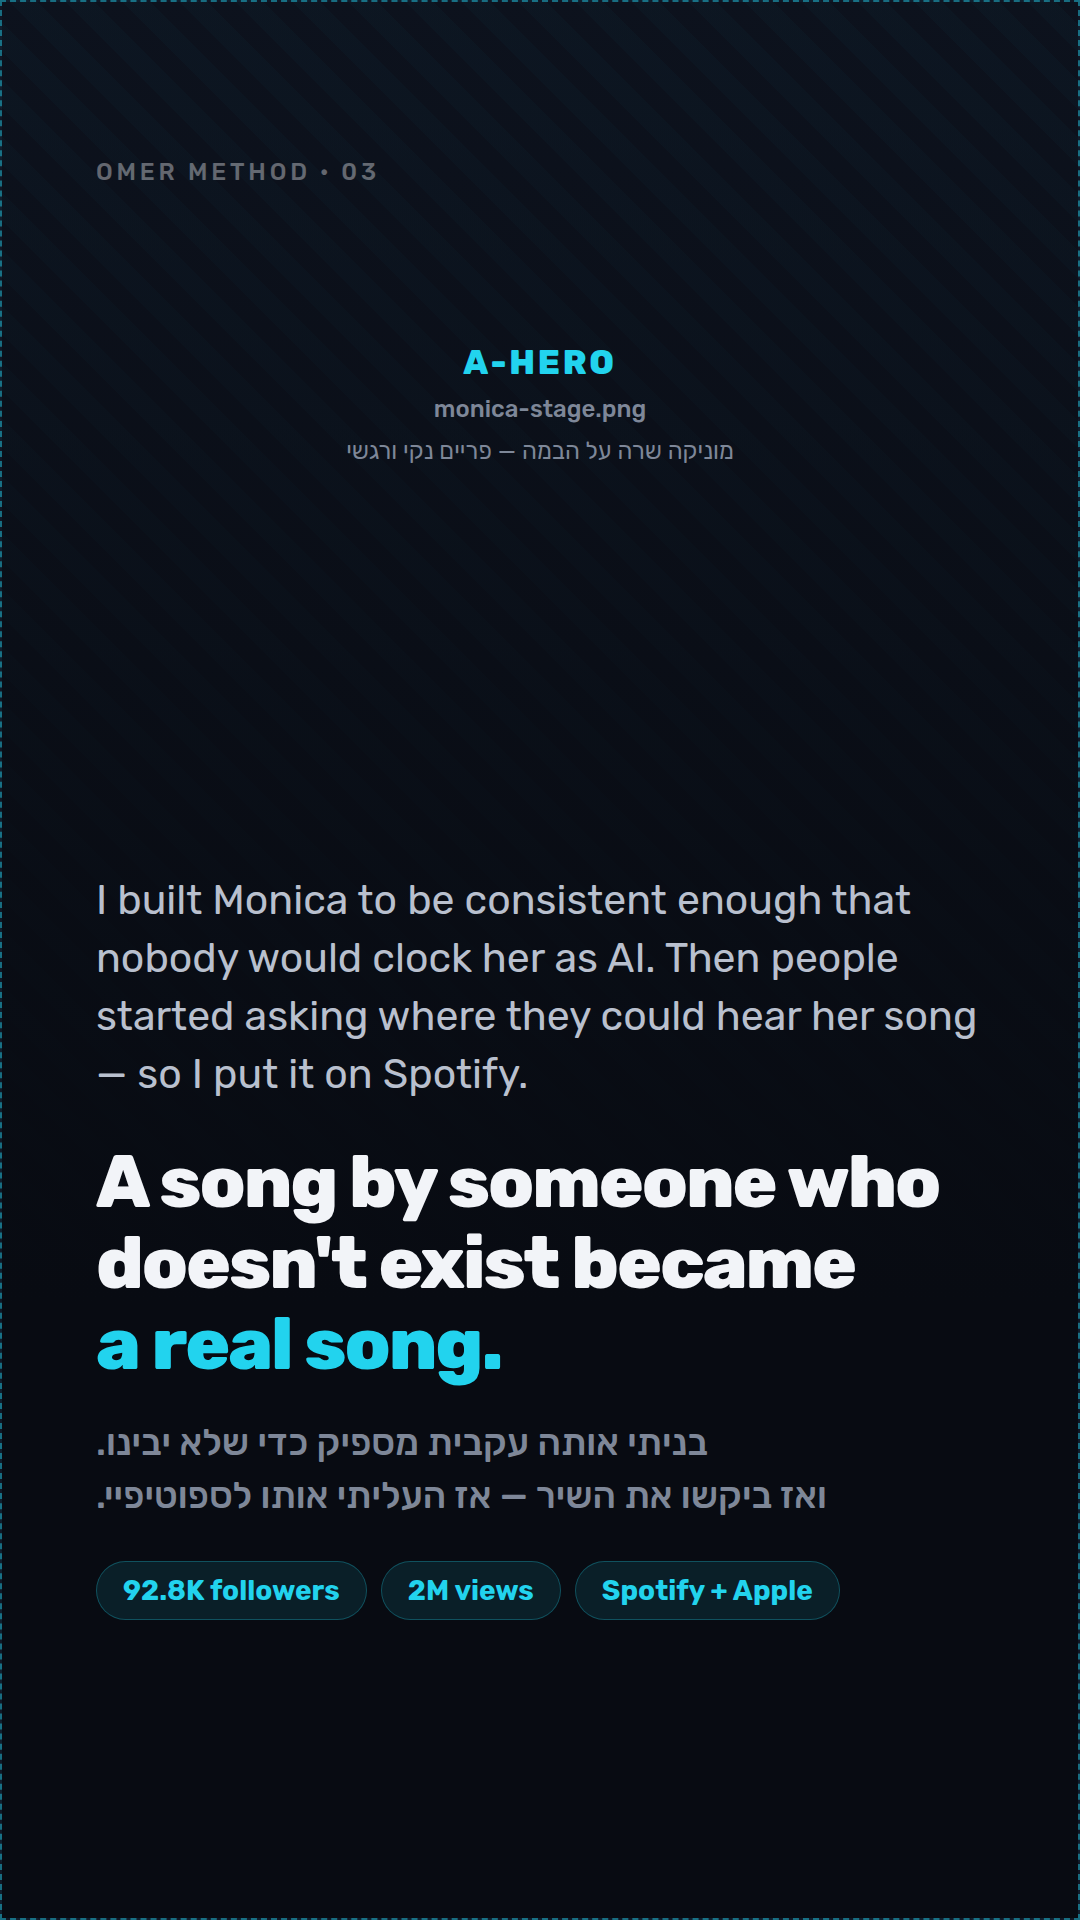
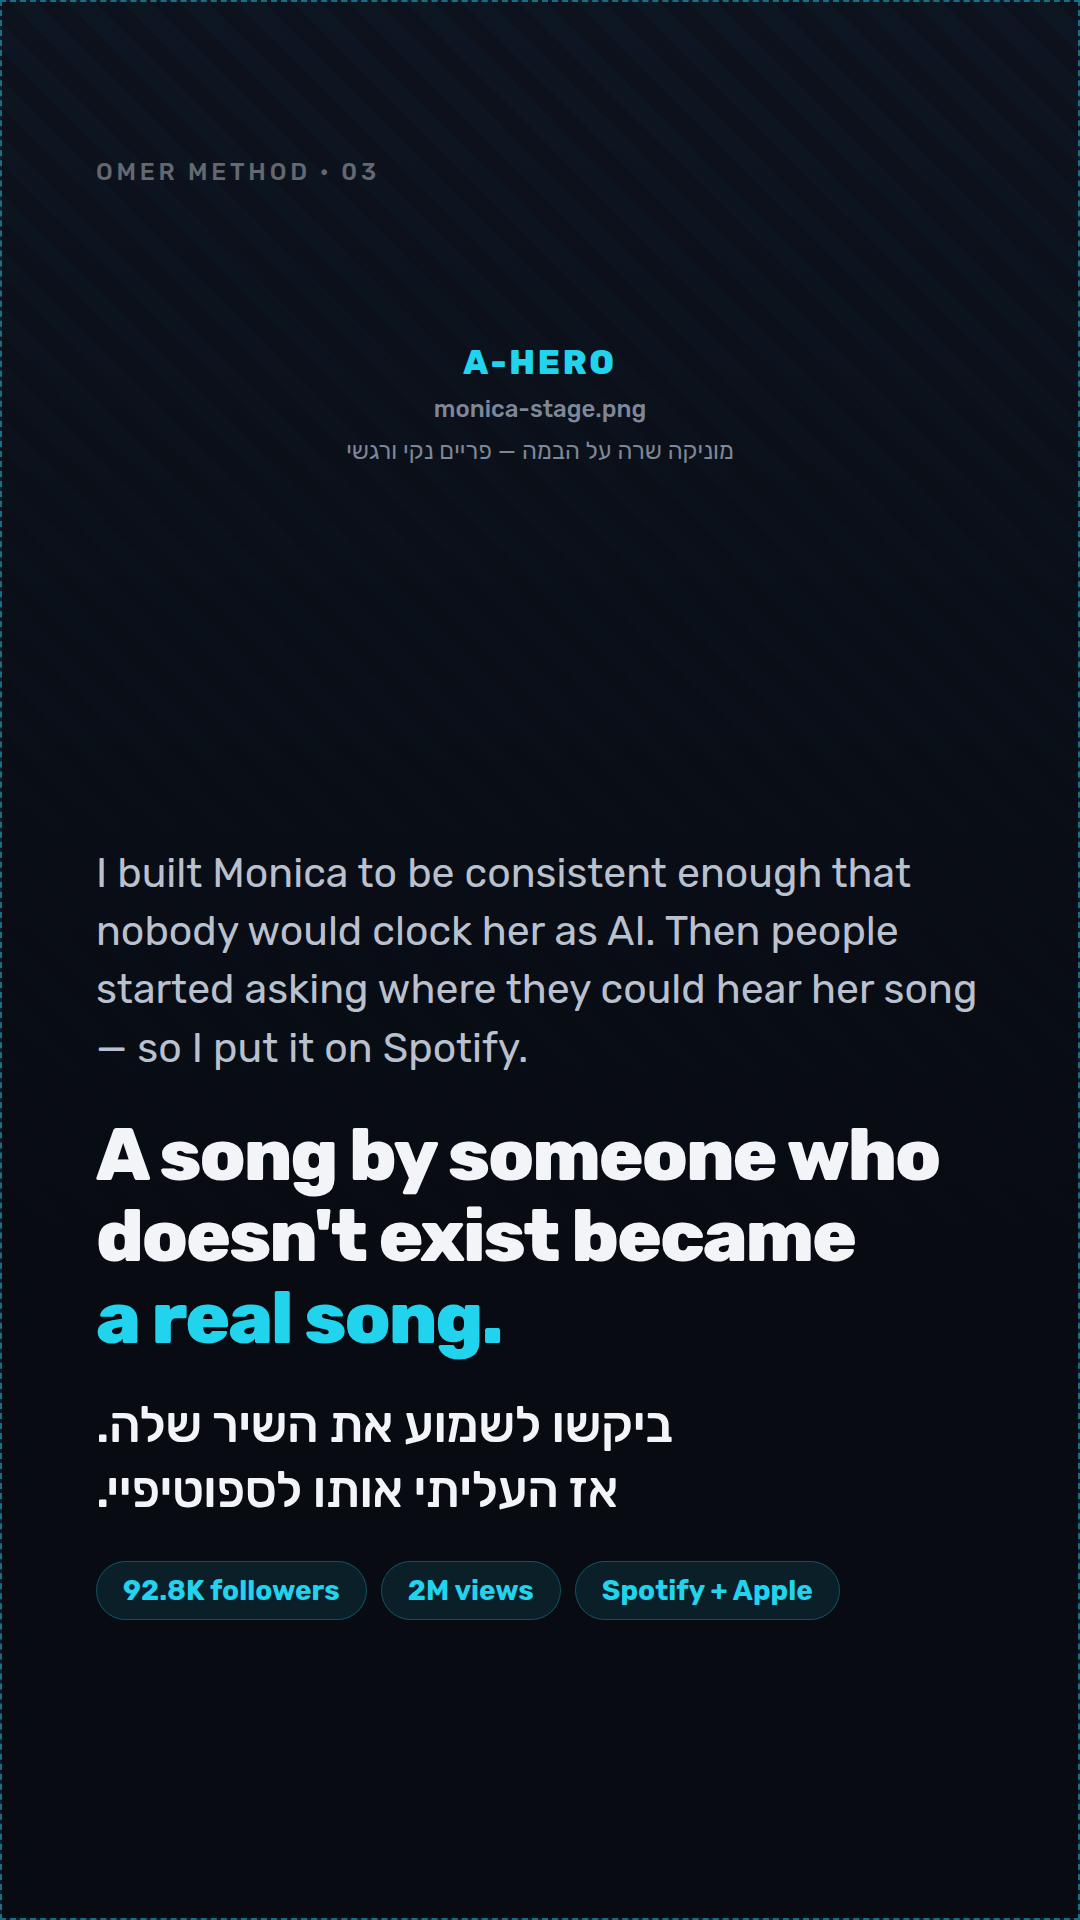
Raise Hebrew to a matching headline size
Hebrew was set at 37px in muted grey, which read as a caption next to an
88px English lead. It now sets at 62px in the same paper-white (50px on
dense frames). Hebrew carries no ascender/descender swing, so ~0.70x of
the Latin lead lands at matching visual weight — English still reads
first, but Hebrew is a headline rather than a footnote.

Hebrew copy tightened where headline size made lines wrap, and frame 4
was 229px past the canvas once the zones and closing line grew; its bands
and closing statement are resized to fit.

Adds lines.mjs, which checks the rendered DOM for unintended line wraps
and for frames overflowing 1920px. Both failures are invisible in the
HTML source and silently crop in the PNG.

Claude-Session: https://claude.ai/code/session_0113ue75zsKk6knXSw8ei82D

Changed region(s): [[0.0917, 0.4375, 0.9167, 0.8125], [0.7333, 0.75, 0.7639, 0.7812]]

diff --git a/omer-method-launch/01-stories/frames.html b/omer-method-launch/01-stories/frames.html
@@ -19,14 +19,18 @@
 
   /* ── English leads. Sentence case, never caps: caps read as advertising. ── */
   .en{direction:ltr;text-align:left}
-  .he{direction:rtl;text-align:left;color:var(--muted)}
+  .he{direction:rtl;text-align:left}
 
   .lead{font-size:88px;font-weight:800;line-height:1.1;letter-spacing:-.028em}
   .lead.sm{font-size:74px}
   .sub{font-size:41px;font-weight:400;line-height:1.42;color:#B9C0CE;
        margin-top:32px;max-width:900px}
-  .he-line{font-size:37px;font-weight:500;line-height:1.45;margin-top:30px;
-           max-width:880px}
+
+  /* Hebrew reads optically larger per px than Latin — no ascender/descender
+     swing — so ~0.70x of the English lead sits at matching visual weight. */
+  .he-line{font-size:62px;font-weight:600;line-height:1.24;margin-top:34px;
+           max-width:940px;color:var(--paper);letter-spacing:-.01em}
+  .he-line.sm{font-size:50px;font-weight:500;line-height:1.3}
 
   .accent{color:var(--accent)}
   em{font-style:italic;font-weight:400}
@@ -72,7 +76,7 @@
   .box .q{font-size:32px;font-weight:400;color:var(--muted)}
   .box .a{font-size:56px;font-weight:800;line-height:1.16;margin-top:14px;
           letter-spacing:-.02em}
-  .box .heb{font-size:34px;font-weight:500;color:var(--accent);margin-top:20px;
+  .box .heb{font-size:44px;font-weight:600;color:var(--accent);margin-top:20px;
             direction:rtl;text-align:left}
 
   /* ── guide list ── */
@@ -115,7 +119,7 @@
   <div class="en lead">AI handed everyone<br>a Hollywood studio.</div>
   <div class="en sub">I've been here since the beginning, learning the tools as they kept changing. What I noticed is that almost nobody knows what to do once they're inside that studio.</div>
   <div class="hr"></div>
-  <div class="he he-line">אני כאן מההתחלה. ה־AI נתן לכולם אולפן —<br>רובם עדיין לא יודעים מה לעשות בתוכו.</div>
+  <div class="he he-line">ה־AI נתן לכולם אולפן.<br>רובם לא יודעים מה לעשות בתוכו.</div>
   <div class="spacer"></div>
 </section>
 
@@ -130,7 +134,7 @@
   <div class="over">
     <div class="en sub" style="margin-top:0">I built Monica to be consistent enough that nobody would clock her as AI. Then people started asking where they could hear her song — so I put it on Spotify.</div>
     <div class="en lead sm" style="margin-top:38px">A song by someone who<br>doesn't exist became<br><span class="accent">a real song.</span></div>
-    <div class="he he-line">בניתי אותה עקבית מספיק כדי שלא יבינו.<br>ואז ביקשו את השיר — אז העליתי אותו לספוטיפיי.</div>
+    <div class="he he-line sm">ביקשו לשמוע את השיר שלה.<br>אז העליתי אותו לספוטיפיי.</div>
     <div class="chips">
       <div class="chip">92.8K followers</div>
       <div class="chip">2M views</div>
@@ -145,21 +149,21 @@
   <div class="en lead sm">Then I took the same<br>thinking somewhere else.</div>
   <div class="en sub">Different tools. Different formats. Different audiences.</div>
   <div style="display:flex;flex-direction:column;gap:18px;margin-top:38px">
-    <div class="zone" style="height:212px">
+    <div class="zone" style="height:140px">
       <div class="zid">B1 · Only in Israel</div>
       <div class="zfile">oii-episode-strip.png &nbsp;·&nbsp; 1M+ views · 16 episodes</div>
     </div>
-    <div class="zone" style="height:212px">
+    <div class="zone" style="height:140px">
       <div class="zid">C1 · BRIEF 24</div>
       <div class="zfile">brief24.png &nbsp;·&nbsp; the method, applied to itself</div>
     </div>
-    <div class="zone" style="height:212px">
+    <div class="zone" style="height:140px">
       <div class="zid">B2 · Make Me Care</div>
       <div class="zfile">omer-grid.png</div>
     </div>
   </div>
   <div class="spacer"></div>
-  <div class="en lead sm" style="margin-top:40px">The only thing that stayed<br>the same was <span class="accent">the order<br>of my decisions.</span></div>
+  <div class="en lead" style="margin-top:24px;font-size:62px">What stayed the same was<br><span class="accent">the order of my decisions.</span></div>
   <div class="he he-line">מה שנשאר קבוע — סדר ההחלטות.</div>
 </section>
 
@@ -200,7 +204,7 @@
   <div class="spacer"></div>
   <div class="en lead">Not one of them<br>mentioned the AI.</div>
   <div class="en sub">They were reacting to the story. Not <em>what</em> I made — <b>how I told it.</b></div>
-  <div class="he he-line">אף אחד לא הזכיר את ה־AI. הם הגיבו לסיפור.</div>
+  <div class="he he-line sm">אף אחד לא הזכיר את ה־AI.<br>הם הגיבו לסיפור.</div>
 
   <div class="box">
     <div class="q">So what is the method?</div>
@@ -217,7 +221,7 @@
   <div class="en sub" style="margin-top:0">I'm not here to teach you how to make an AI video. That part is easy now, and honestly it's the least interesting thing about any of this.</div>
   <div class="en lead" style="margin-top:44px">It doesn't replace you.<br><span class="accent">It sharpens what<br>you already do.</span></div>
   <div class="hr"></div>
-  <div class="he he-line">אני לא בא ללמד אתכם לעשות סרטון AI — זה החלק הקל.<br>הקשה הוא לגרום לו לשאת את מה שאתם כבר עושים.</div>
+  <div class="he he-line sm">ללמד סרטון AI זה הקל.<br>הקשה — שהוא ישא את העבודה שלכם.</div>
   <div class="spacer"></div>
 </section>
 
@@ -233,7 +237,7 @@
     <div class="grow"><div class="gnum">04</div><div class="gname">Turn Your World into a Web Series</div></div>
     <div class="grow" style="border:none"><div class="gnum">05</div><div class="gname">Inside the Creative Room</div></div>
   </div>
-  <div class="he he-line">חודשים של לכתוב, למחוק ולכתוב שוב. לא רשימת כלים.</div>
+  <div class="he he-line sm">חודשים של לכתוב, למחוק ולכתוב שוב.</div>
   <div class="spacer"></div>
   <div class="box" style="margin-top:0">
     <div class="q">Guide 01, chapter 2</div>
@@ -248,7 +252,7 @@
   <div class="spacer"></div>
   <div class="en lead sm">Does it click overnight?<br>No. <span class="accent">It's a muscle.</span></div>
   <div class="en sub">But after three years of building this, I'm convinced anyone can train it.</div>
-  <div class="he he-line">לא קורה ברגע. זה שריר.<br>אבל אני משוכנע שכל אחד יכול לאמן אותו.</div>
+  <div class="he he-line">לא קורה ברגע. זה שריר.<br>אבל כל אחד יכול לאמן אותו.</div>
   <div class="spacer"></div>
   <div class="mark">Omer <span>Method</span></div>
   <div class="live">Live now · באוויר</div>

diff --git a/omer-method-launch/01-stories/design-system.md b/omer-method-launch/01-stories/design-system.md
@@ -40,7 +40,8 @@ Fallback stack: `Rubik, Heebo, "Noto Sans Hebrew", Arial, sans-serif`
 |---|---|---|---|---|
 | Lead | English | 74–88px | 800 | `line-height: 1.1`, `letter-spacing: -0.028em` |
 | Sub | English | 41px | 400 | colour `#B9C0CE`, max-width 900px |
-| Support | Hebrew | 37px | 500 | colour `#7E8798`, `dir="rtl"` |
+| Hebrew lead | Hebrew | 62px | 600 | `#F2F4F8` — a headline, not a footnote |
+| Hebrew lead (dense frames) | Hebrew | 50px | 500 | `.he-line.sm` |
 | Method box | English | 56px | 800 | left accent bar, no fill |
 | Stat chip | English | 28px | 600 | accent pill, `rgba(34,211,238,0.10)` |
 | Corner label | English | 24px | 500 | `letter-spacing: 0.16em`, 38% opacity |
@@ -51,9 +52,10 @@ Fallback stack: `Rubik, Heebo, "Noto Sans Hebrew", Arial, sans-serif`
 
 The audience spans four languages — the comment thread alone carries Hebrew,
 English, French and Portuguese — so English is the line that has to land, and it
-gets the size, the weight and the paper-white. Hebrew sits below at roughly 40%
-of the lead size in muted grey: present for the Israeli audience, never
-competing for the same eye.
+gets the size, the weight and the paper-white. Hebrew sits below at ~0.70x of the English lead, in the same paper-white.
+Hebrew has no ascender/descender swing, so at 62px against an 88px Latin lead
+the two read at matching visual weight — the English is still first, but the
+Hebrew is a headline in its own right rather than a caption.
 
 ```
 ┌──────────────────────────────┐
@@ -64,7 +66,7 @@ competing for the same eye.
 │  English sub, one or two     │  ← 41px / 400 / #B9C0CE
 │  sentences of real voice.    │
 │  ────                        │
-│  שורת עברית תומכת            │  ← 37px / 500 / #7E8798
+│  כותרת עברית תואמת           │  ← 62px / 600 / #F2F4F8
 │                              │
 └──────────────────────────────┘
 ```
@@ -117,3 +119,15 @@ daylight, which is where it will actually be read.
 
 Keep it minimal — a slow 4% scale push on the image, type static. Moving type in
 stories costs readability and readability is the entire job here.
+
+## Verify before shipping
+
+Hebrew set at headline size overruns a 1080px frame easily, and a silent extra
+line pushes content past the 1920px canvas where it is simply cut off. Two
+checks run against the rendered DOM, never by eye:
+
+- every `.he-line` renders on exactly as many lines as it has explicit `<br>`s
+- no `.frame` has `scrollHeight > 1920`
+
+`lines.mjs` reports both. Re-run it after any copy edit — a single added word
+is enough to break a frame.
